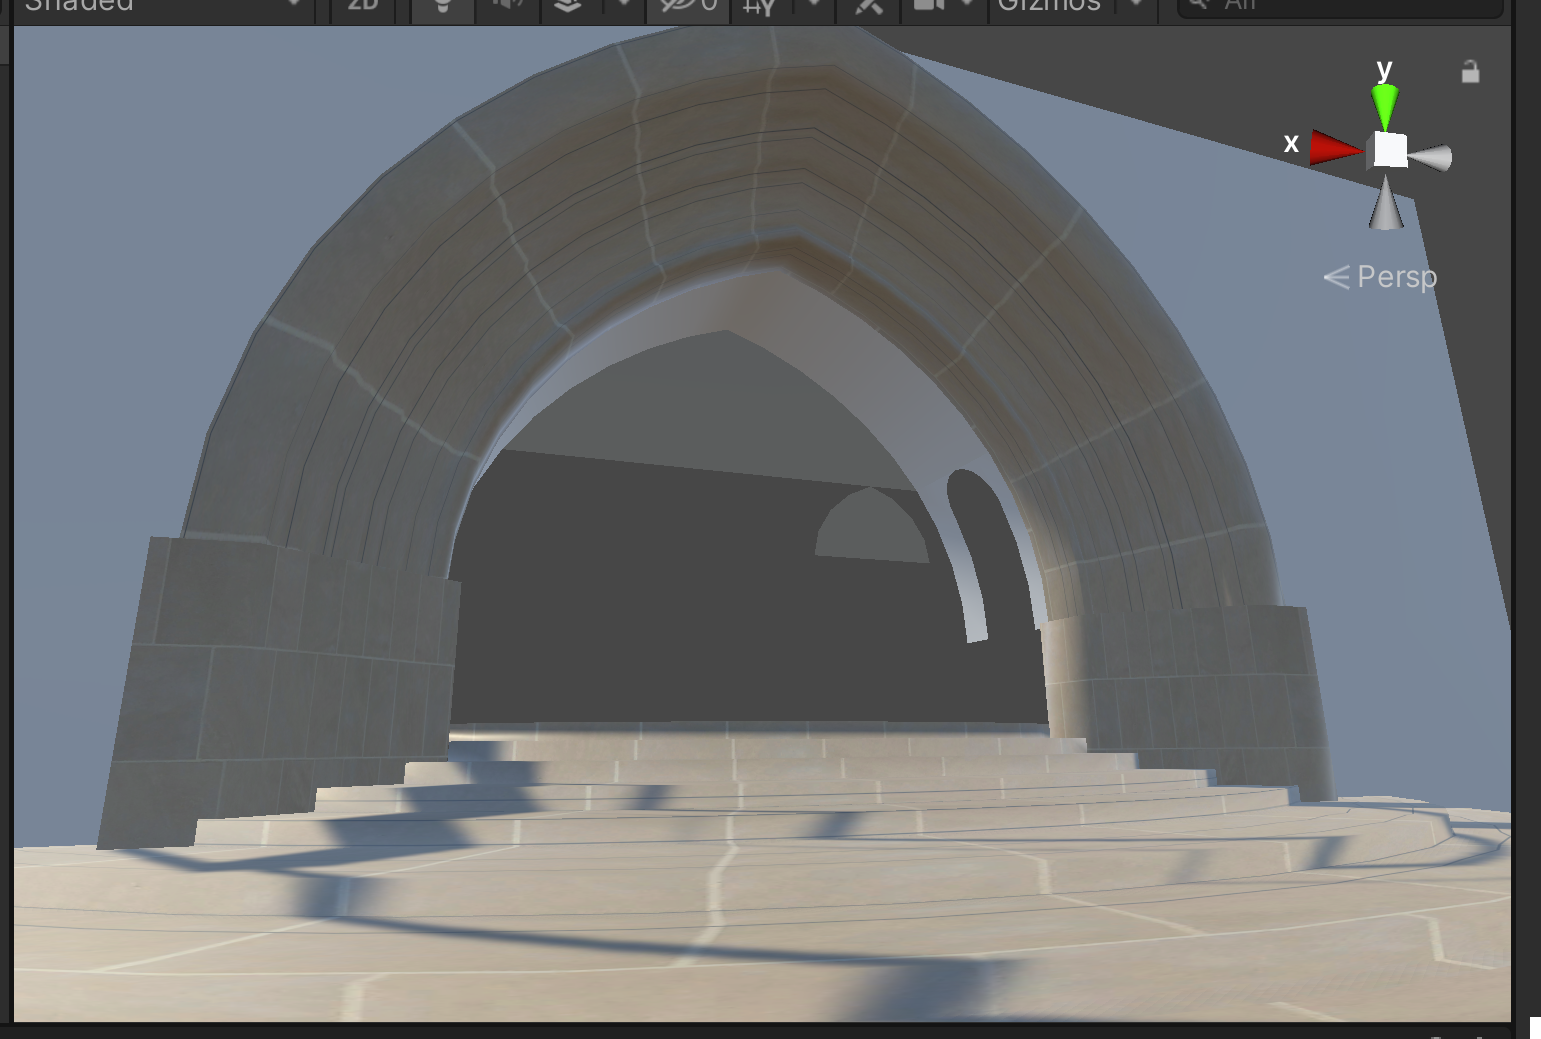
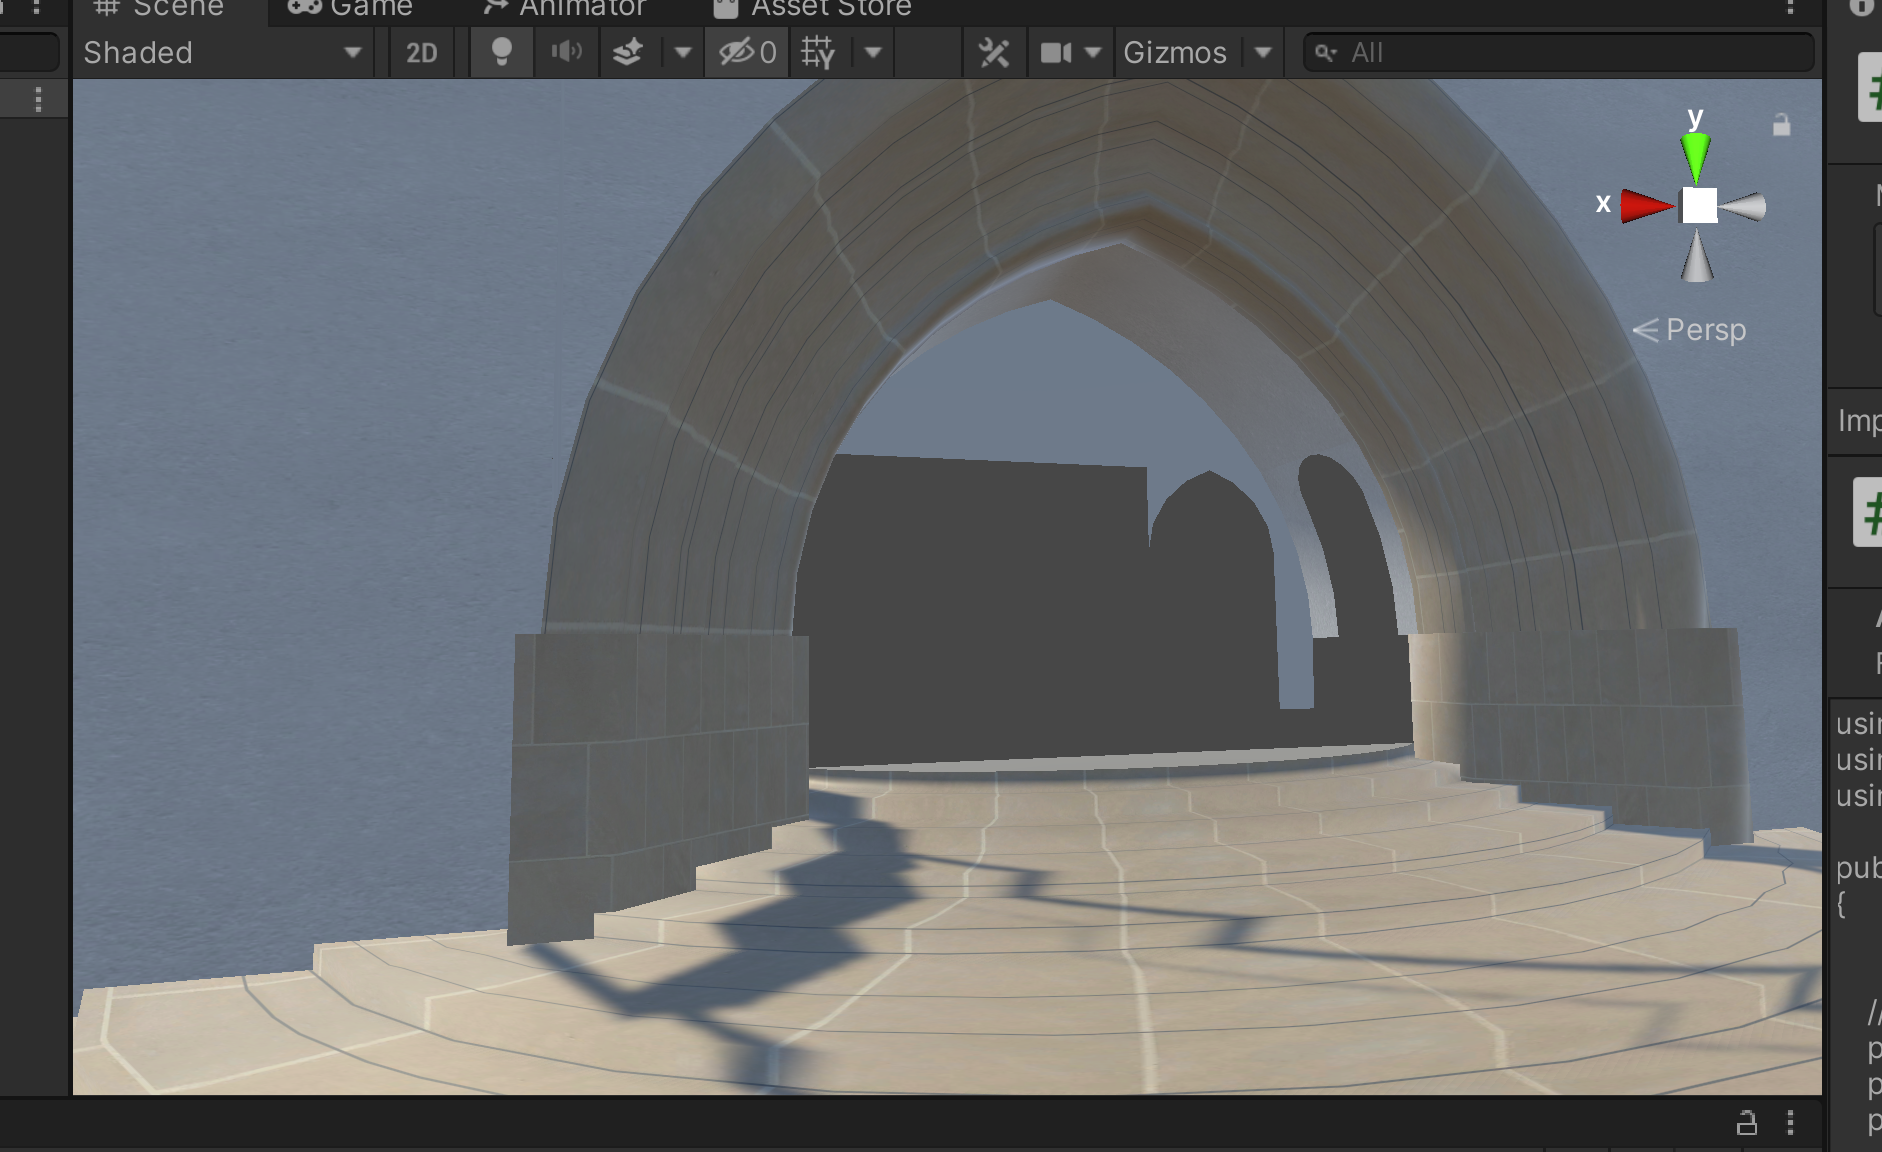
Add files via upload

diff --git a/WallEntrance.cs b/WallEntrance.cs
@@ -129,9 +129,9 @@ public class WallEntrance : MonoBehaviour
         triangles = new int[12 * N+1000];
         uvs = new Vector2[3 * (2 * N + 1)];
         */
-        vertices = new Vector3[(2 * N + 1) + 20];
-        triangles = new int[3 * (2 * N - 6 ) + 3 + 30];
-        uvs = new Vector2[(2 * N + 1) + 20];
+        vertices = new Vector3[(2 * N + 1) + 26];
+        triangles = new int[3 * (2 * N - 6 ) + 3 + 30 + 9 + 15];
+        uvs = new Vector2[(2 * N + 1) + 26];
 
 
         float angle1 = -45f / 180f * PI;
@@ -166,11 +166,51 @@ public class WallEntrance : MonoBehaviour
         {
             x = 0.175f * c1 * Mathf.Cos(PI - i * delta_theta * 2 * N * 1f /8.00000f);
             z = -dz * 4.3333333f - dz * 2.5f;
-            vertices[i + nextVert] = Arch_eq_6_A(x, z, 0.175f * c1, 0.175f * c2, angle) + POS + new Vector3(-0.525f, -aFloat + c2*0.525f, -8f * dz);
+            vertices[i + nextVert] = Arch_eq_6_A(x, z, 0.175f * c1, 0.175f * c2, angle) + POS + new Vector3(-0.525f, -aFloat + c2*0.525f, -8f * dz);//Equation of small arch.
         }
         temp = vertices[nextVert];
         temp2 = vertices[nextVert + 4];
-        vertices[9 + nextVert] = new Vector3(-0.525f, temp[1], temp2[2]);
+        Vector3 temp3 = vertices[nextVert + 8];
+
+        vertices[9 + nextVert] = vertices[0];
+
+        nextVert = 10 + nextVert;
+        for (int i = 0; i < 5; i++)
+        {
+            x = 0.7f * c1 * Mathf.Cos(PI - (i) * delta_theta);
+            z = -dz * 4.3333333f - dz * 2.5f;
+            vertices[i + nextVert] = Arch_eq_6_A(x, z, 0.7f * c1, 0.7f * c2, angle) + POS + new Vector3(0f, 0f, -8f * dz);
+        }
+
+        nextVert = 5 + nextVert;
+        x = 0.175f * c1 * Mathf.Cos(PI - 0 * delta_theta * 2 * N * 1f / 8.00000f);
+        z = -dz * 4.3333333f - dz * 2.5f;
+        vertices[0 + nextVert] = Arch_eq_6_A(x, z, 0.175f * c1, 0.175f * c2, angle) + POS + new Vector3(-0.525f, -aFloat + c2 * 0.525f - 0.5f, -8f * dz);//This is 2N+9
+
+        nextVert = 1 + nextVert;
+        x = 0.175f * c1 * Mathf.Cos(PI - 0 * delta_theta * 2 * N * 1f / 8.00000f);
+        z = -dz * 4.3333333f - dz * 2.5f;
+        vertices[0 + nextVert] = Arch_eq_6_A(x, z, 0.175f * c1, 0.175f * c2, angle) + POS + new Vector3(-0.525f-0.125f, -aFloat + c2 * 0.525f - 0.5f, -8f * dz);//This is 2N+10
+
+
+//        nextVert = 1 + nextVert;
+        /*
+        for (int i = 0; i < 5; i++)
+        {
+            x = 0.7f * c1 * Mathf.Cos(PI - (i+5) * delta_theta);
+            z = -dz * 4.3333333f - dz * 2.5f;
+            vertices[i + nextVert] = Arch_eq_6_A(x, z, 0.7f * c1, 0.7f * c2, angle) + POS + new Vector3(0f, 0f, -8f * dz);//Equation of small arch.//Vert 2N+11 to 2N+15
+        }
+*/
+        nextVert = 1 + nextVert;
+        vertices[nextVert] = temp3 + POS + new Vector3(0f, .25975f, 0f);//Equation of small arch.//Vert 2N+11
+
+
+
+
+
+
+        //        vertices[9 + nextVert] = new Vector3(-0.525f, temp[1], temp2[2]);
 
         // First Top arch part (Right Side)
         for (int i = 0; i < 2 * N - 6; i++)
@@ -180,13 +220,62 @@ public class WallEntrance : MonoBehaviour
             triangles[i3 + 1] = 2 * N - 7;
             triangles[i3 + 2] = i + 1;
         }
+
+
         int nextTri = 3 * (2 * N - 6);
-        for (int i = 0; i < 9; i++)
+        for (int i = 0; i < 4; i++)
         {
             int i3 = 3 * i;
-            triangles[i3 + nextTri] = i + 0 + 2 * N - 6;
+            triangles[i3 + nextTri] = i + 1 + 2 * N - 6;
             triangles[i3 + 1 + nextTri] = 2 * N - 6  + 9;
-            triangles[i3 + 2 + nextTri] = i + 1 + 2 * N - 6;
+            triangles[i3 + 2 + nextTri] = i + 0 + 2 * N - 6;
+        }
+
+        nextTri = 3 * 4 + nextTri;
+
+        triangles[nextTri] = 0 + 0 + 2 * N - 6;
+        triangles[1 + nextTri] = 1 + 2 * N + 7;
+        triangles[2 + nextTri] =  0 + 2 * N + 7;
+
+
+        nextTri = 3 * 1 + nextTri;
+        triangles[nextTri] = 0 + 0 + 2 * N - 6;
+        triangles[1 + nextTri] = 1 + 2 * N + 6;
+        triangles[2 + nextTri] = 0 + 2 * N + 6;
+
+        nextTri = 3 * 1 + nextTri;
+        triangles[nextTri] = 0 + 0 + 2 * N - 6;
+        triangles[1 + nextTri] = 1 + 2 * N + 5;
+        triangles[2 + nextTri] = 0 + 2 * N + 5;
+
+        nextTri = 3 * 1 + nextTri;
+        triangles[nextTri] = 0 + 0 + 2 * N - 6;
+        triangles[1 + nextTri] = 1 + 2 * N + 4;
+        triangles[2 + nextTri] = 0 + 2 * N + 4;
+
+
+        nextTri = 3 * 1 + nextTri;
+        triangles[nextTri] = 0 + 0 + 2 * N + 9;
+        triangles[1 + nextTri] = 0 + 2 * N - 6;
+        triangles[2 + nextTri] = 0 + 2 * N + 5;
+
+        nextTri = 3 * 1 + nextTri;
+        triangles[nextTri] = 0 + 0 + 2 * N + 9;
+        triangles[1 + nextTri] = 0 + 2 * N + 5;
+        triangles[2 + nextTri] = 0 + 2 * N + 4;
+
+        nextTri = 3 * 1 + nextTri;
+        triangles[nextTri] = 0 + 0 + 2 * N + 4;
+        triangles[1 + nextTri] = 0 + 2 * N + 10;
+        triangles[2 + nextTri] = 0 + 2 * N + 9;
+
+        nextTri = 3 * 1 + nextTri;
+        for (int i = 0; i < 4; i++)
+        {
+            int i3 = 3 * i;
+            triangles[i3 + nextTri] = i + 1 + 2 * N - 2;
+            triangles[i3 + 1 + nextTri] = 2 * N + 11;
+            triangles[i3 + 2 + nextTri] = i + 0 + 2 * N - 2;
         }
 
 
